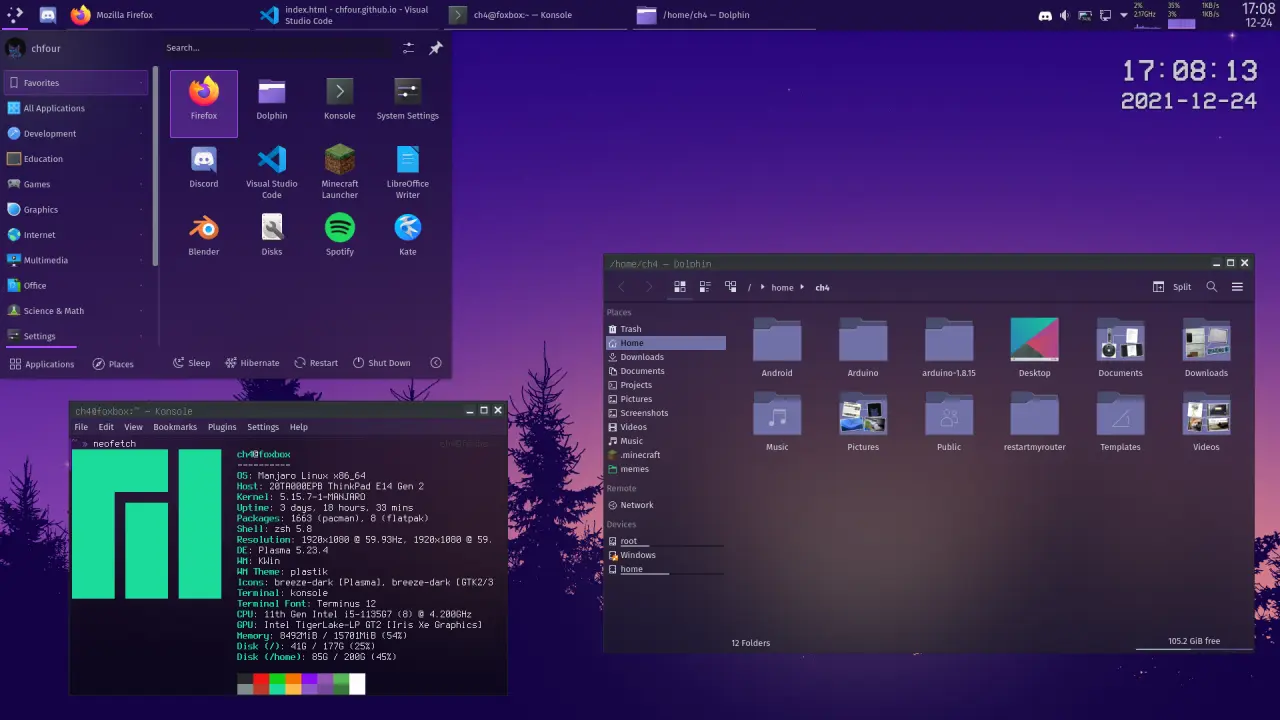
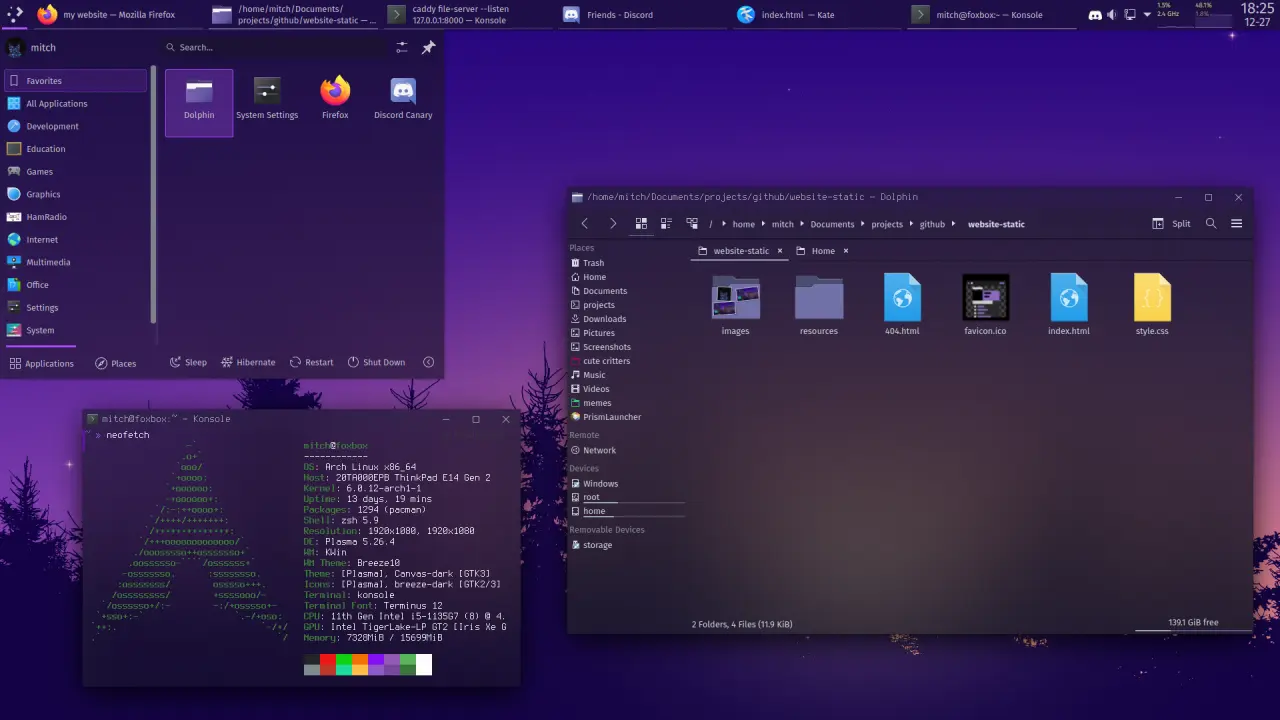
update setup/themes section

diff --git a/index.html b/index.html
@@ -82,10 +82,12 @@
                 </ul>
             </p>
 
-            <p>Amateur datahoarder, Linux user, sort-of radio enthusiast and a furry, plus more (what a combo). My name is Michael, I'm 16 years old.</p>
+            <p>amateur datahoarder, Linux user, sort-of radio enthusiast and a furry, plus more (what a combo)</p>
+            <p>sixteen (16) years old, and counting</p>
+            <p>call me Mitch/Mitchy/Mitchell/whatever&trade;</p>
             <p>any pronouns, <a href="https://en.wiktionary.org/wiki/they#Pronoun">they/them</a>, whatever - I really don't care.</p>
             <p>
-                Stuff I'm familiar with, or know:
+                stuff I'm familiar with, or know:
                 <ul>
                     <li>Linux (daily driving!)</li>
                     <li>Python</li>
@@ -96,7 +98,7 @@
                 </ul>
             </p>
             
-            <p>That's all for now, I guess</p>
+            <p>that's all for now, I guess</p>
         </div>
     </section>
 
@@ -114,9 +116,9 @@
 
             <h3>other stuff</h3>
             <ul class="links">
-                <li><a href="resources/asciitable.html">an ascii table that doesn't suck</a></li>
+                <li><a href="resources/asciitable.html">an ascii table that doesn't suck (kinda)</a></li>
                 <li><a href="https://chfour.github.io/garlic-bread-time/">garlic bread time&trade;</a></li>
-                <li><a href="https://files.mitchy.xyz/">files</a></li>
+                <li><a href="https://files.mitchy.xyz/">the files</a></li>
             </ul>
         </div>
     </section>
@@ -136,23 +138,23 @@
             <h3>software and themes</h3>
             <a href="images/desktop-screenshot.png"><img src="images/desktop-screenshot-small.webp" alt="desktop screenshot, click to view full res" title="click to show full res version" style="max-width: 50%; max-height: 50vh;"></a>
             <ul>
-                <li>Manjaro Linux w/ KDE Plasma</li>
-                <li>Application / Kvantum theme: <a href="https://www.pling.com/p/1457367/">Lavender</a></li>
-                <li>Icons: builtin Breeze Dark</li>
+                <li>Arch Linux w/ KDE Plasma</li>
+                <li>app / Kvantum theme: <a href="https://www.pling.com/p/1457367/">Lavender</a></li>
+                <li>icons: built-in Breeze Dark</li>
                 <li>GTK theme: <a href="https://store.kde.org/p/1279224">Canvas-dark</a></li>
-                <li>Titlebars: builtin Plastik theme, titlebar font is the GNU Unifont</li>
-                <li>System / menu font: Fira Sans</li>
+                <li>titlebars: <a href="https://github.com/chfour/Breeze10">my fork of Breeze10</a>, titlebar font is Terminus</li>
+                <li>system / menu font: Fira Sans</li>
                 <li>Plasma style: <a href="https://store.kde.org/p/1312311">Mirage</a></li>
-                <li>Color scheme: <a href="https://store.kde.org/p/1479064">Genome Dark Charoite</a></li>
-                <li>Terminal emulator of choice: Konsole, font: Terminus size 12</li>
-                <li>Preferred text editor: VSCode (theme: Mayukai Alucard), <a href="https://micro-editor.github.io/">micro</a> for smaller things</li>
-                <li>Wallpapers: <a href="https://store.kde.org/p/1428521">Forest Sunset (on screenshot)</a> &amp; <a href="https://store.kde.org/p/1659733">ArcMidnight-dark (on secondary screen)</a></li>
+                <li>color scheme: <a href="https://store.kde.org/p/1457362">Lavender-Dark-Color</a> with the purple accent color from the built-in palette</li>
+                <li>terminal emulator of choice: Konsole, font: Terminus size 12</li>
+                <li>preferred text editor: KDE Kate (theme: Monokai), <a href="https://micro-editor.github.io/">micro</a>, VSCode (theme: Mayukai Alucard)</li>
+                <li>wallpapers: <a href="https://store.kde.org/p/1428521">Forest Sunset (on screenshot)</a> &amp; <a href="https://store.kde.org/p/1659733">ArcMidnight-dark (on secondary screen)</a></li>
             </ul>
         </div>
     </section>
     </article>
     <footer>
-        <p>You may view this page's history <a href="https://github.com/chfour/website-static/commits/main/index.html">here</a>.</p>
+        <p>you can view this page's history <a href="https://github.com/chfour/website-static/commits/main/index.html">here</a></p>
     </footer>
 </body>
 </html>
